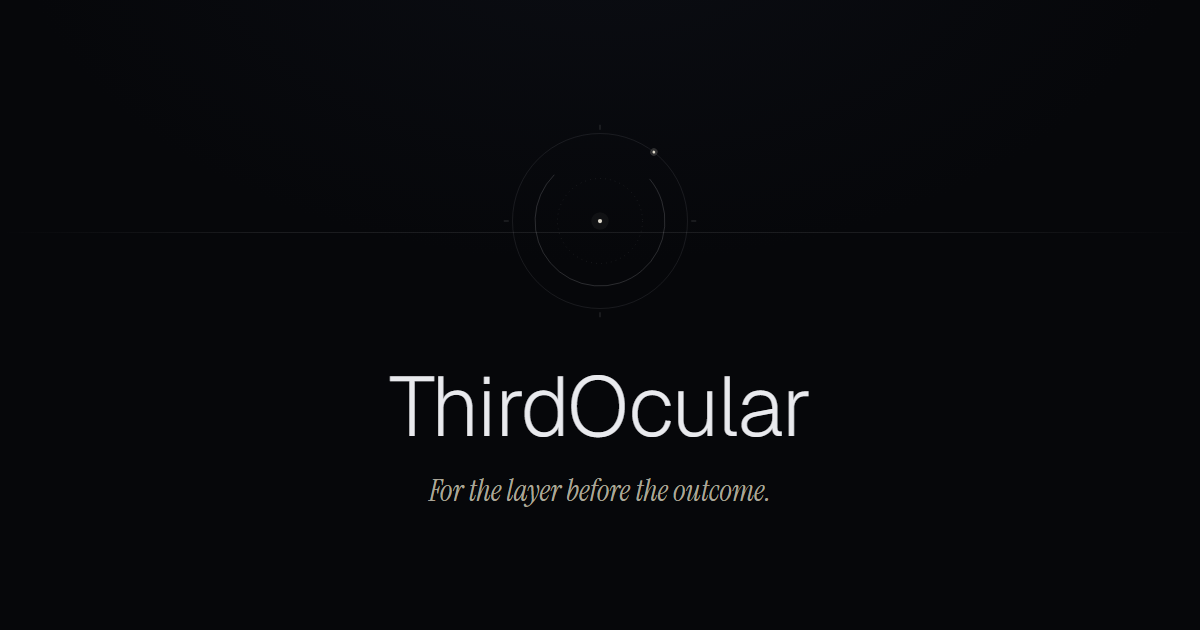
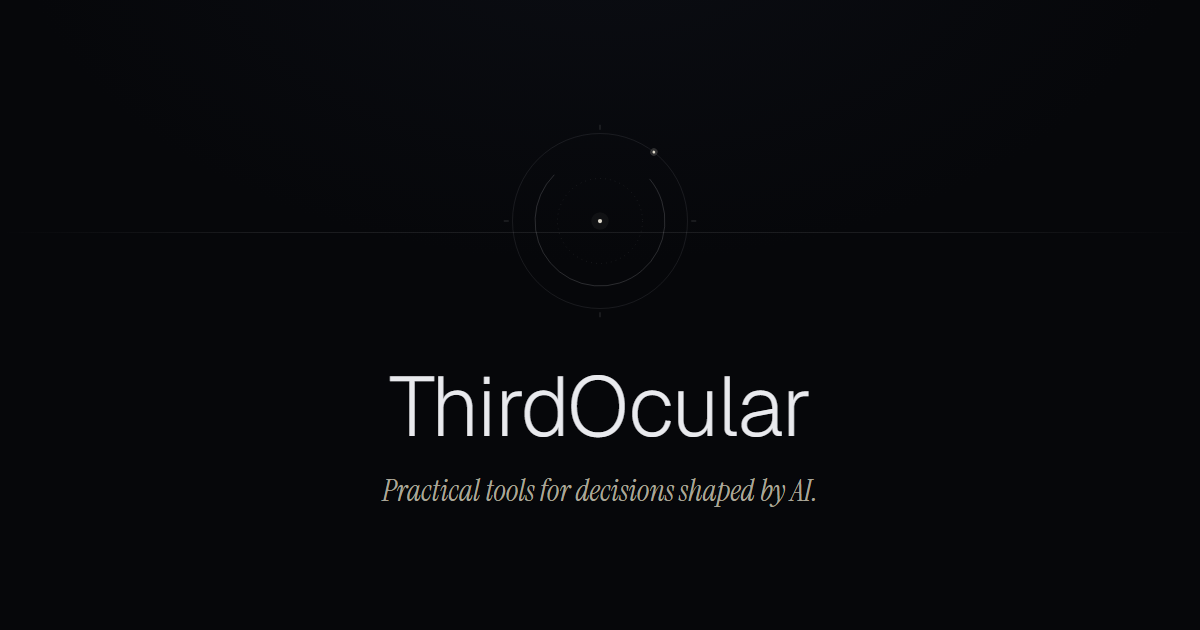
Reposition: practical product studio, concrete AisleLens
Shift umbrella positioning from "lab for hidden decision layers" to a
product studio building practical AI tools, proportionate to the one live
product. Hero, sections, product node, closing, and footer reworked;
AisleLens now explained concretely with a capability line and "Run a free
scan" CTA. Metadata, JSON-LD, manifest, 404, README, and the OG image
source/render updated consistently.

Changed region(s): [[0.3083, 0.754, 0.6783, 0.8143]]

diff --git a/index.html b/index.html
@@ -3,10 +3,10 @@
   <head>
     <meta charset="UTF-8" />
     <meta name="viewport" content="width=device-width, initial-scale=1.0" />
-    <title>ThirdOcular — For the layer before the outcome</title>
+    <title>ThirdOcular — Practical tools for decisions shaped by AI</title>
     <meta
       name="description"
-      content="ThirdOcular is an independent lab building instruments for hidden decision layers — the models, rankings, and signals that shape outcomes before they become visible. First instrument: AisleLens."
+      content="ThirdOcular builds focused AI products that help businesses measure how they are recommended, ranked, and discovered. Its first product is AisleLens."
     />
     <link rel="canonical" href="https://thirdocular.com/" />
     <meta name="theme-color" content="#06070a" />
@@ -18,27 +18,27 @@
     <!-- Open Graph -->
     <meta property="og:type" content="website" />
     <meta property="og:site_name" content="ThirdOcular" />
-    <meta property="og:title" content="ThirdOcular — For the layer before the outcome" />
+    <meta property="og:title" content="ThirdOcular — Practical tools for decisions shaped by AI" />
     <meta
       property="og:description"
-      content="An independent lab building instruments for hidden decision layers. First instrument: AisleLens."
+      content="Practical AI tools for understanding how businesses are recommended, ranked, and discovered."
     />
     <meta property="og:url" content="https://thirdocular.com/" />
     <meta property="og:locale" content="en_US" />
     <meta property="og:image" content="https://thirdocular.com/og.png" />
     <meta property="og:image:width" content="1200" />
     <meta property="og:image:height" content="630" />
-    <meta property="og:image:alt" content="ThirdOcular — For the layer before the outcome" />
+    <meta property="og:image:alt" content="ThirdOcular — Practical tools for decisions shaped by AI" />
 
     <!-- Twitter -->
     <meta name="twitter:card" content="summary_large_image" />
-    <meta name="twitter:title" content="ThirdOcular — For the layer before the outcome" />
+    <meta name="twitter:title" content="ThirdOcular — Practical tools for decisions shaped by AI" />
     <meta
       name="twitter:description"
-      content="An independent lab building instruments for hidden decision layers. First instrument: AisleLens."
+      content="Practical AI tools for understanding how businesses are recommended, ranked, and discovered."
     />
     <meta name="twitter:image" content="https://thirdocular.com/og.png" />
-    <meta name="twitter:image:alt" content="ThirdOcular — For the layer before the outcome" />
+    <meta name="twitter:image:alt" content="ThirdOcular — Practical tools for decisions shaped by AI" />
 
     <script type="application/ld+json">
       {
@@ -47,7 +47,7 @@
         "name": "ThirdOcular",
         "url": "https://thirdocular.com",
         "email": "[email redacted]",
-        "description": "An independent lab building instruments for hidden decision layers."
+        "description": "ThirdOcular builds focused AI products that help businesses measure how they are recommended, ranked, and discovered. Its first product is AisleLens."
       }
     </script>
 
@@ -197,34 +197,34 @@
         </div>
 
         <h1 class="wordmark">ThirdOcular</h1>
-        <p class="tagline">For the layer before the outcome.</p>
+        <p class="tagline">Practical tools for decisions shaped by AI.</p>
 
         <div class="scroll-cue" aria-hidden="true"></div>
       </section>
 
-      <!-- ================= PHILOSOPHY ================= -->
+      <!-- ================= WHAT WE BUILD ================= -->
       <section class="philosophy" id="philosophy">
         <div class="section-grid">
-          <span class="label reveal">01&ensp;·&ensp;Position</span>
+          <span class="label reveal">01&ensp;·&ensp;What we build</span>
           <div class="philosophy-copy">
-            <p class="lede reveal">Most decisions do not begin where they become visible.</p>
             <p class="lede reveal">
-              They begin inside hidden systems — models, rankings, filters, incentives, and
-              signals moving beneath the surface.
+              AI systems increasingly influence which products, brands, and information people
+              encounter.
             </p>
-            <p class="lede lede-strong reveal">ThirdOcular builds instruments for that layer.</p>
+            <p class="lede lede-strong reveal">
+              ThirdOcular builds focused software that helps businesses measure those decisions,
+              understand the competition, and improve what happens next.
+            </p>
           </div>
         </div>
       </section>
 
-      <!-- ================= SIGNALS ================= -->
+      <!-- ================= PRODUCTS ================= -->
       <section class="signals" id="signals">
         <div class="section-grid">
-          <span class="label reveal">02&ensp;·&ensp;Signals</span>
+          <span class="label reveal">02&ensp;·&ensp;Products</span>
           <div class="signals-body">
-            <p class="signals-intro reveal">
-              Instruments leave the lab when they are ready. The first is live.
-            </p>
+            <p class="signals-intro reveal">Our first product is live.</p>
 
             <a class="signal reveal" href="https://lens.thirdocular.com">
               <span class="signal-no">001</span>
@@ -234,10 +234,16 @@
                 >
                 <span class="signal-kind">AI shopping visibility for ecommerce brands</span>
                 <span class="signal-desc"
-                  >See when AI shopping assistants choose your competitors instead of you.</span
+                  >Test your store across ChatGPT, Gemini, and Perplexity. See how often your brand is
+                  recommended, which competitors win, and the shopper questions where your brand is
+                  missing.</span
+                >
+                <span class="signal-capability"
+                  >Multi-assistant scans&nbsp;· competitor share of voice&nbsp;· prompt-level
+                  findings</span
                 >
               </span>
-              <span class="signal-cta">Open AisleLens&ensp;<span class="arrow" aria-hidden="true">↗</span></span>
+              <span class="signal-cta">Run a free scan&ensp;<span class="arrow" aria-hidden="true">↗</span></span>
             </a>
           </div>
         </div>
@@ -245,7 +251,7 @@
 
       <!-- ================= CLOSING ================= -->
       <section class="closing">
-        <p class="closing-line reveal">If it decides, it can be seen.</p>
+        <p class="closing-line reveal">Measure what shapes the choice.</p>
         <a class="closing-contact reveal" href="mailto:[email redacted]"
           >[email redacted]</a
         >
@@ -269,7 +275,6 @@
       </div>
       <div class="foot-bottom">
         <span>© 2026 ThirdOcular</span>
-        <span class="foot-motto">Signal over noise</span>
       </div>
     </footer>
 

diff --git a/src/style.css b/src/style.css
@@ -477,9 +477,22 @@ section {
 .signal-desc {
   display: block;
   font-size: 1rem;
+  line-height: 1.5;
   color: var(--text-dim);
   margin-top: 1.1rem;
-  max-width: 26rem;
+  max-width: 30rem;
+}
+
+.signal-capability {
+  display: block;
+  font-family: var(--font-mono);
+  font-size: 0.72rem;
+  font-weight: 400;
+  letter-spacing: 0.04em;
+  line-height: 1.7;
+  color: var(--text-faint);
+  margin-top: 1.3rem;
+  max-width: 30rem;
 }
 
 .signal-cta {
@@ -596,11 +609,6 @@ section {
   font-size: 0.66rem;
   letter-spacing: 0.14em;
   color: var(--text-faint);
-}
-
-.foot-motto {
-  text-transform: uppercase;
-  letter-spacing: 0.24em;
 }
 
 /* ============ reveal on scroll ============ */

diff --git a/public/404.html b/public/404.html
@@ -3,7 +3,7 @@
   <head>
     <meta charset="UTF-8" />
     <meta name="viewport" content="width=device-width, initial-scale=1.0" />
-    <title>ThirdOcular — No signal</title>
+    <title>ThirdOcular — Page not found</title>
     <meta name="robots" content="noindex" />
     <meta name="theme-color" content="#06070a" />
     <link rel="icon" type="image/svg+xml" href="favicon.svg" />
@@ -69,8 +69,8 @@
       <circle cx="12" cy="12" r="1.6" fill="#ded9cc" />
       <circle cx="18" cy="6" r="1" fill="#ded9cc" opacity="0.9" />
     </svg>
-    <p class="code">404 · No signal</p>
-    <h1>This address returns nothing.</h1>
+    <p class="code">404 · Not found</p>
+    <h1>We couldn’t find that page.</h1>
     <a href="/">Return to ThirdOcular</a>
   </body>
 </html>

diff --git a/scripts/og.html b/scripts/og.html
@@ -100,6 +100,6 @@
       </g>
     </svg>
     <h1>ThirdOcular</h1>
-    <p>For the layer before the outcome.</p>
+    <p>Practical tools for decisions shaped by AI.</p>
   </body>
 </html>

diff --git a/README.md b/README.md
@@ -1,7 +1,7 @@
 # ThirdOcular — thirdocular.com
 
-The umbrella site for ThirdOcular, an independent lab for applied machine perception.
-One page. Near-black. Quiet.
+The umbrella site for ThirdOcular — a product studio building practical software for
+decisions shaped by AI. One page. Near-black. Quiet.
 
 ## Stack
 
@@ -62,10 +62,10 @@ Pages also work (build `npm run build`, output `dist`) if hosting ever moves.
 
 ## Notes for editing
 
-- All copy lives in `index.html`. The voice is a research lab, not a marketer:
-  short declaratives, no hype words, no exclamation points.
-- New products go in the Signals section as numbered nodes (`002`, `003`…).
-  Keep one line of description. Resist adding more.
+- All copy lives in `index.html`. The voice is a focused product studio, not a
+  marketer: short declaratives, concrete, no hype words, no exclamation points.
+- New products go in the Products section as numbered nodes (`002`, `003`…).
+  Keep the description to a couple of concise lines plus one capability line.
 - Motion is atmosphere, not decoration. The full budget: the rotating arcs and
   orbiting point of light in the iris; the wordmark's focus-pull on load; the
   scroll reveals; the "LIVE" pulse on Signal 001; and the perception field — a